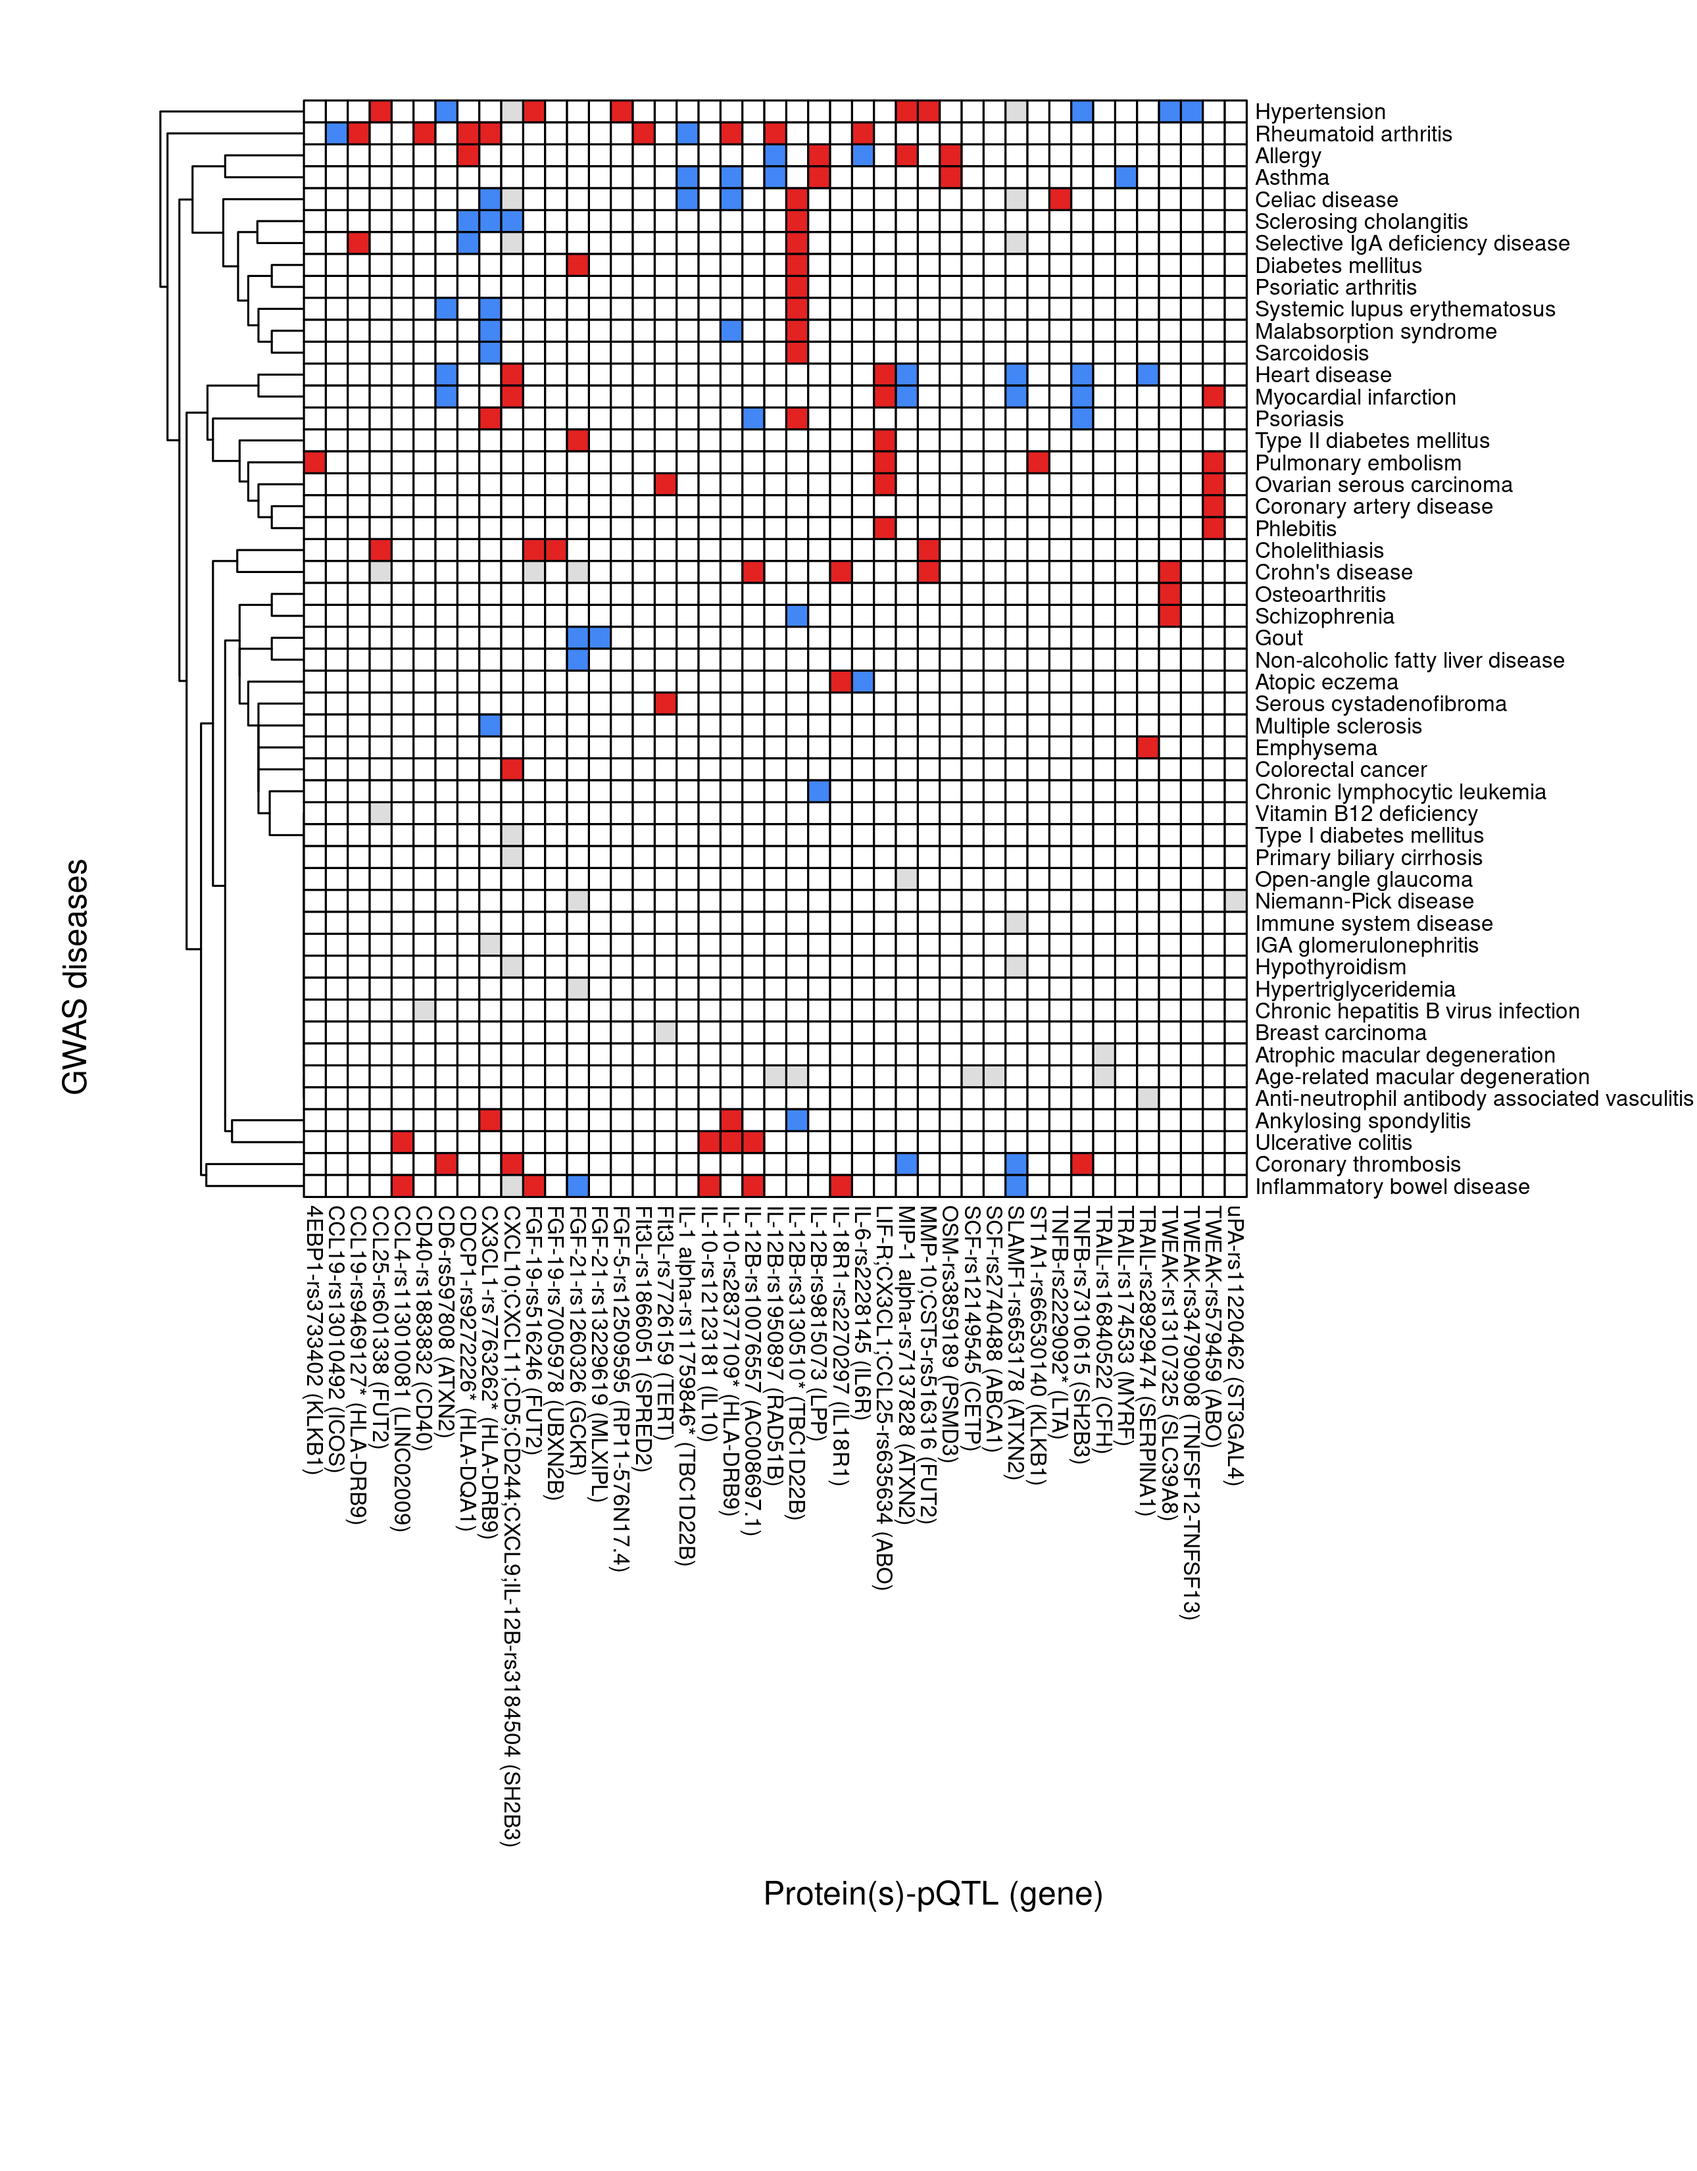
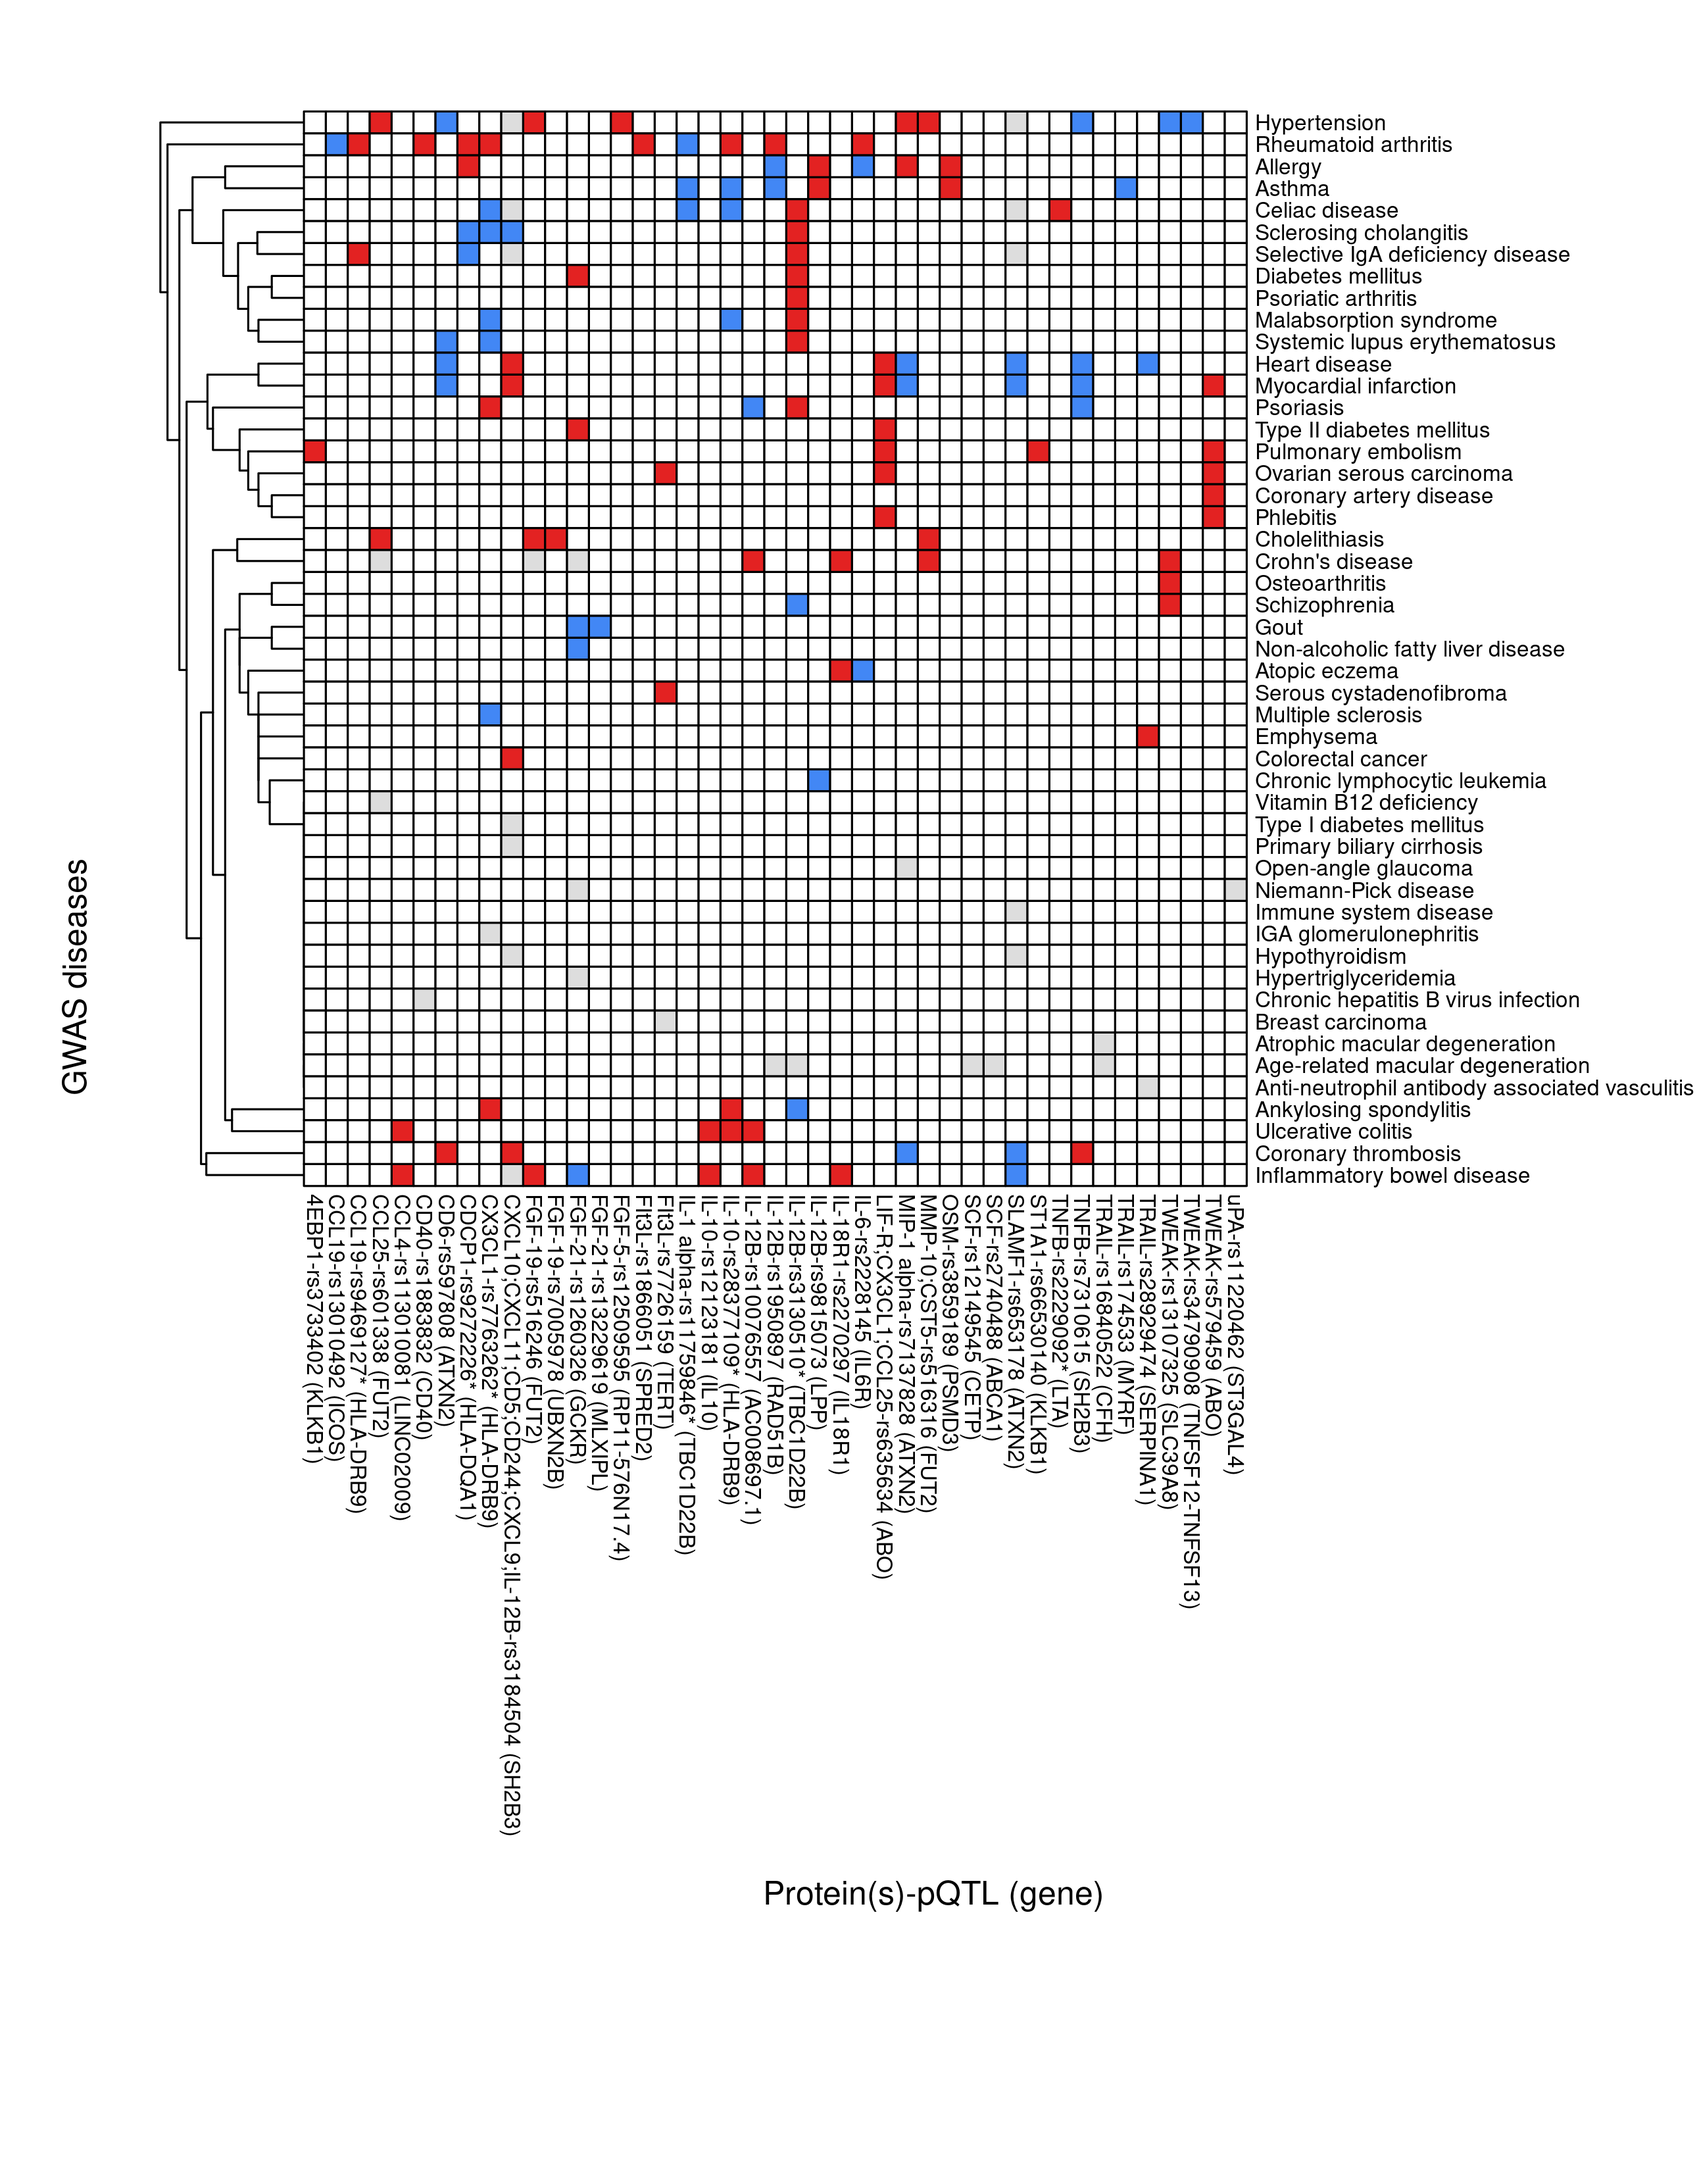
docs

Changed region(s): [[0.093, 0.0312, 1.0, 0.8427]]

diff --git a/docs/articles/SCALLOP-INF.html b/docs/articles/SCALLOP-INF.html
@@ -254,6 +254,7 @@
 <span>                       <span class="op">)</span> <span class="op"><a href="https://magrittr.tidyverse.org/reference/pipe.html" class="external-link">%&gt;%</a></span></span>
 <span>              <span class="fu"><a href="https://rdrr.io/r/base/data.frame.html" class="external-link">data.frame</a></span><span class="op">(</span><span class="op">)</span></span>
 <span>  <span class="va">rxc</span> <span class="op">&lt;-</span> <span class="fu"><a href="https://rdrr.io/r/base/with.html" class="external-link">with</a></span><span class="op">(</span><span class="va">combined</span>,<span class="fu"><a href="https://rdrr.io/r/base/table.html" class="external-link">table</a></span><span class="op">(</span><span class="va">efoTraits</span>,<span class="va">rsidProts</span><span class="op">)</span><span class="op">)</span></span>
+<span>  <span class="va">rxc</span><span class="op">[</span><span class="fu"><a href="https://rdrr.io/r/base/NA.html" class="external-link">is.na</a></span><span class="op">(</span><span class="va">rxc</span><span class="op">)</span><span class="op">]</span> <span class="op">&lt;-</span> <span class="fl">0</span></span>
 <span>  <span class="kw">for</span><span class="op">(</span><span class="va">cn</span> <span class="kw">in</span> <span class="fu"><a href="https://rdrr.io/r/base/colnames.html" class="external-link">colnames</a></span><span class="op">(</span><span class="va">rxc</span><span class="op">)</span><span class="op">)</span> <span class="kw">for</span><span class="op">(</span><span class="va">rn</span> <span class="kw">in</span> <span class="fu"><a href="https://rdrr.io/r/base/colnames.html" class="external-link">rownames</a></span><span class="op">(</span><span class="va">rxc</span><span class="op">)</span><span class="op">)</span> <span class="op">{</span></span>
 <span>     <span class="va">cnrn</span> <span class="op">&lt;-</span> <span class="fu"><a href="https://rdrr.io/r/base/subset.html" class="external-link">subset</a></span><span class="op">(</span><span class="va">combined</span>,<span class="va">efoTraits</span><span class="op">==</span><span class="va">rn</span> <span class="op">&amp;</span> <span class="va">rsidProts</span><span class="op">==</span><span class="va">cn</span><span class="op">)</span></span>
 <span>     <span class="kw">if</span><span class="op">(</span><span class="fu"><a href="https://rdrr.io/r/base/nrow.html" class="external-link">nrow</a></span><span class="op">(</span><span class="va">cnrn</span><span class="op">)</span><span class="op">==</span><span class="fl">0</span><span class="op">)</span> <span class="kw">next</span></span>
@@ -265,6 +266,7 @@
 <span><span class="op">}</span></span>
 <span></span>
 <span><span class="va">rxc</span> <span class="op">&lt;-</span> <span class="fu">gwas</span><span class="op">(</span><span class="op">)</span></span></code></pre></div>
+<p>Note that cells with missing values are set to be zero.</p>
 </div>
 <div class="section level3" number="1.3">
 <h3 id="visualization">
